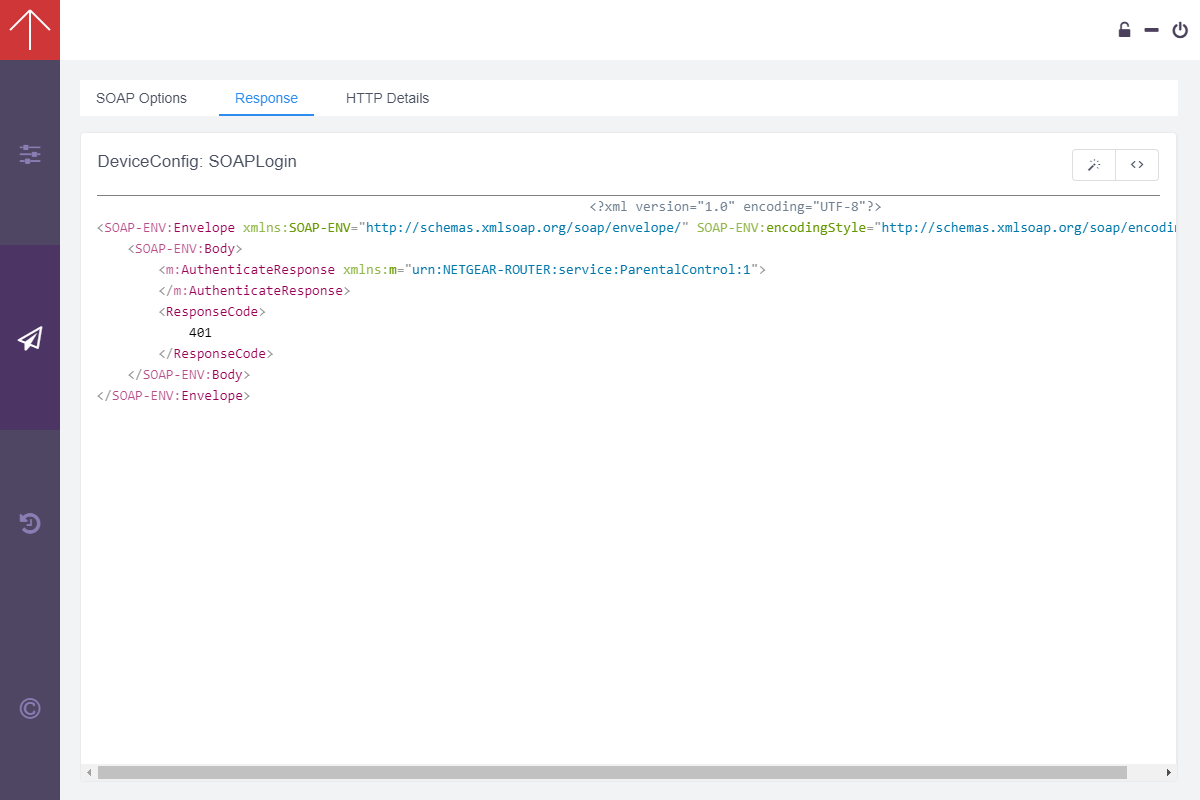
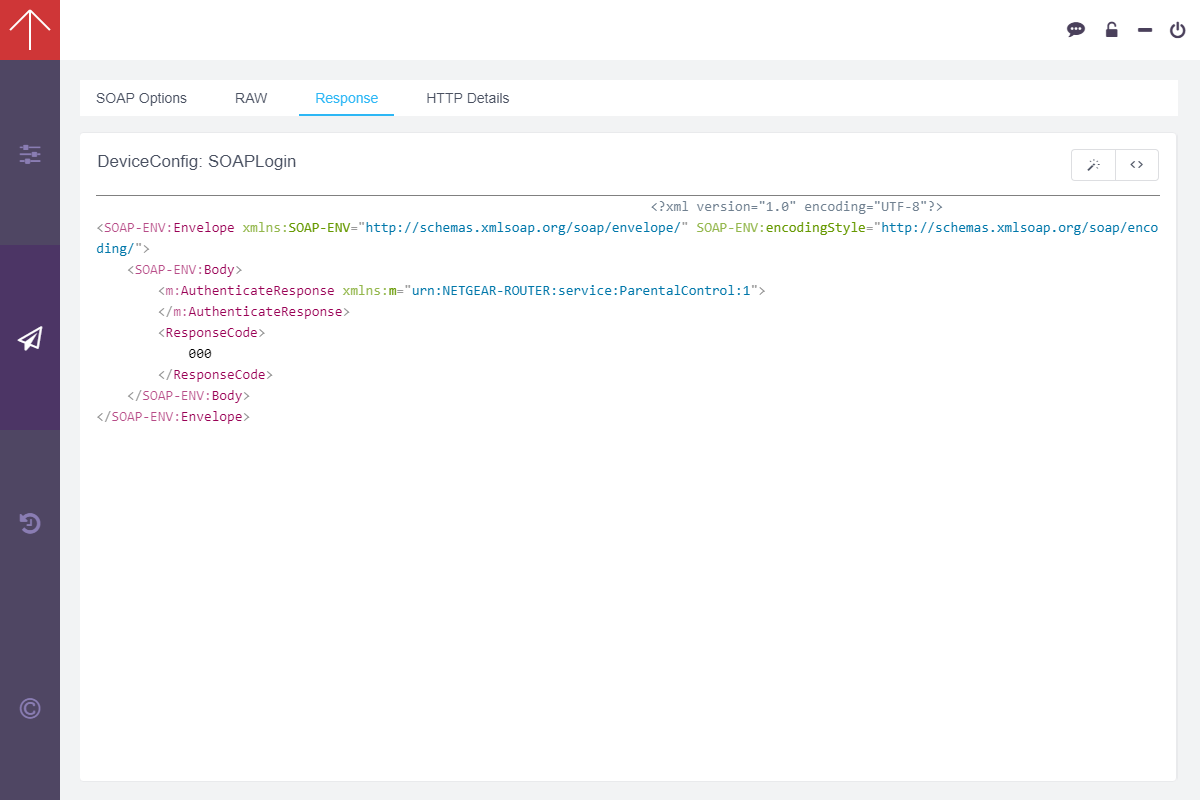
update screenshots and README

diff --git a/README.md b/README.md
@@ -1,8 +1,10 @@
 <h2>Soap-Sender 主页</h2>
 
+<b>@ 仅供交流学习，禁止商业使用</b>
+
 目录结构：
 
-server: 用来启动展示主页和检查更新版本
+server: 用来启动展示主页、检索版本、存储意见
 
 client: 用来构建客户端软件
 
@@ -11,10 +13,10 @@ client: 用来构建客户端软件
 
 如何构建 app
 
-1. 在 client 内运行 cnpm install --production
+1. 在 client 内运行 npm install --production
 2. 全局安装 electron 和 electron-packager 
 3. electron -v 查看 electron 版本，修改 package.json 里的 scripts 相对应的 electron 版本号
-4. cnpm run pk-win (或者 pk-linux pk-mac)
+4. npm run pk-win (或者 pk-linux pk-mac)
 
 注意点:
 
@@ -34,22 +36,22 @@ client: 用来构建客户端软件
 <li>
 <p><strong>下载和使用</strong></p>
 <p>1-1. 软件下载后 .zip 后缀，解压缩后得到一个 exe 自解压文件。双击 exe 文件解压后得到一个文件夹。运行文件夹里面 Soap-Sender.exe 文件就可以使用软件。你也可以对这个文件做一个快捷方式。</p>
-<p>1-2. 如果你更新了软件，但是又想要保留原来 SOAP 列表，那么从旧软件的 soap-list 目录下拷贝 soap-list.json 替换新软件相应文件即可。</p>
-<p>1-3. 如果你更新了软件，但是又想要保留原来的设置和记录，在新软件的版本信息页面选择旧软件的根目录，点击导入即可。</p>
+<p>1-2. 如果你更新了软件，但是又想要保留原来的设置和记录，在新软件的版本信息页面选择旧软件的根目录，点击导入即可。</p>
+
 </li>
 <li>
 <p><strong>导航菜单</strong></p>
 <p><img src="/server/image/basic.png" /></p>
-<p>2-1. 右上从左到右分别为： 软件界面锁定在顶层开关，最小化和关闭</p>
+<p>2-1. 右上从左到右分别为： 对作者提建议，软件界面锁定在顶层开关，最小化和关闭</p>
 <p>2-2. 左边导航从上到下分别为：导航伸缩开关，基本设置页面，发包页，历史记录页和软件版本信息和设置页</p>
 </li>
 <li>
 <p><strong>基本设置页</strong></p>
-<p>3-1. IP 是通过获得所有 DNS 地址后去掉 172.17 和 127.0.0.1 部分的地址后，优先选择 192.168 、10.0 、172.16 获得的。</p>
+<p>3-1. IP 是通过获得所有 DNS 地址后去掉 172.17 和 127.0.0.1 部分的地址后，优先选择 192.168 、10.0 、172.16 获得的。 追加了一个主页地址，用来在没有 NTGR 路由器的时候，测试客户端。 使用主页地址的话，SOAP包是发往主页所在的服务器，随机返回 Response Code</p>
 <p>3-2. Password 默认是 password， 如果更改过，下一次启动软件会是上一次关闭前的值。</p>
-<p>3-3. 自动发送登陆 API 和自动发送 ConfigurationStarted/Finished 会在每一个 SOAP 请求前后都发送。</p>
+<p>3-3. 自动发送登陆 API 和自动发送 ConfigurationStarted/Finished 会在每一个 SOAP 请求前后都发送。 如果勾选了自动发送认证 API，在密码变化的时候，会发送认证 API 去检测密码是否准确。</p>
 <p>3-4. 在 IP 有变动的时候，软件会自动请求 currentsetting.htm 页面和发送 GetInfo API 去更新右边的板子信息 （GetInfo API 不需要验证登陆），所以请注意右边信息是否完整。这是软件能否连接到板子的标志。</p>
-<p>3-5. 在密码有变动的时候，软件会自动发送 ParentalControl：Authenticate 验证密码正确与否。如果错误，还请注意提示。</p>
+<p>3-5. 如果右侧 Login Method 没有大于等于 2.0 ，SOAPLogin 和 SOAPLogin 按钮不能使用。 在 SOAPLogin 登陆成功后，会在 SOAP 选项页面追加或者替换 Cookie HTTP 头。 在 Logout 之后会删除这个 Cookie。</p>
 <p>3-6. Serial Number 和 Firmware Version 通过 GetInfo API 获取，其余信息通过 currentsetting.htm 页面获取。</p>
 </li>
 <li>
@@ -61,28 +63,34 @@ client: 用来构建客户端软件
 <p>4-3. 默认显示的结果是经过格式化显示的，在右上角的左边按钮可以切换显示原始结果和格式化结果。</p>
 <p>4-4. 在右上角右边按钮可以复制当前的显示结果。</p>
 <p><img src="/server/image/http-detail.png" /></p>
-<p>4-5. HTTP Details 左边显示了这个请求耗时，具体到每个步骤。一个请求的timeout时间是15s。</p>
+<p>4-5. HTTP Details 左边显示了这个请求耗时，具体到每个步骤。一个请求的timeout时间是在基本设置页面设置的 timeout 时间。</p>
 <p>4-6. HTTP Details 右边分块显示了HTTP请求头和请求主体，还有返回数据的请求头和请求主体</p>
+<p><img src="/server/image/parse-raw.png" /></p>
+<p>4-7. 在 RAW 页可以贴入从历史记录拷贝或者从其他抓包软件拷贝过来的 SOAP 请求报文 （不要贴响应报文），软件会尽量解析报文，将 HTTP 头，SOAP method、 action 和 参数值都填到选项页里去，这样你就可以重新发送拷贝的报文。</p>
 </li>
 <li>
 <p><strong>历史记录</strong></p>
 <p><img src="/server/image/logs.png" /></p>
 <p>5-1. 历史记录页面按照时间显示了以前发送过的 SOAP 请求。一次显示 15 条。在滚动条到达地步的时候继续拉动，会动态显示更多条目。</p>
 <p>5-2. 记录可以展开显示每个记录的详细信息。</p>
-<p>5-3. Response Code 如果是 0，则为绿色背景，如果非 0，则为橙色背景。</p>
+<p>5-3. Response Code 如果是 0，则为绿色背景，如果是以 4 或者 5开头，说明是个出错的报文，则为红色背景，其余情况为橙色背景</p>
 <p>5-4. Cost Time 可以按照大小排序。</p>
 <p>5-5. 每条记录可以删除。</p>
 <p>5-6. 如果点击 Resend 按钮，那么页面会跳到发送构造 SOAP 发送请求的页面。并且根据历史纪录来填写 method、action、SOAP Header 和所需参数，同时也会清除上一次请求的信息。</p>
 </li>
 
-<p><b>选择几条历史记录，可以将记录导出成具有漂亮格式的 PDF 报告</b></p>
+<p><b>选择几条历史记录，选择将要保存到哪个文件夹，可以将记录导出成具有漂亮格式的 PDF 报告，也可以生成 TXT 文档。 成功导出记录后软件会打开保存的路径并选中导出的文件。</b></p>
 <p><img src="/server/image/pdf-reporter.png" /></p>
 
 <li>
 <p><strong>版本信息</strong></p>
 <p><img src="/server/image/app-version.png" /></p>
-<p>6-1. 这个页面展示了当前软件的版本信息。如果有使用上的问题和建议意见</p>
+<p>6-1. 这个页面展示了当前软件的版本信息。如果有使用上的问题和建议意见从右上角那里的按钮进去提交给作者。</p>
 <p>6-2. 如果有新版本，可以点击 Homepage 用浏览器打开此页面下载新版本。在每次进入这个页面的时候软件会自动检查，你也可以手动点击 Check Update 按钮检查版本。</p>
+<p>6-3. 可以一次性将所有历史记录删除</p>
+<p>6-4. Reset 按钮将会将软件恢复到默认的设置，包括你发送过的新加的 SOAP method、 action记录，不需要重新启动。</p>
+<p>6-2. 选择旧版本的根目录文件夹后，可以将历史记录导入到当前软件</p>
+<p>6-2. 选择旧版本的根目录文件夹后，可以将 SOAP 列表导入到当前软件</p>
 </li>
 </ol>
 <hr />
